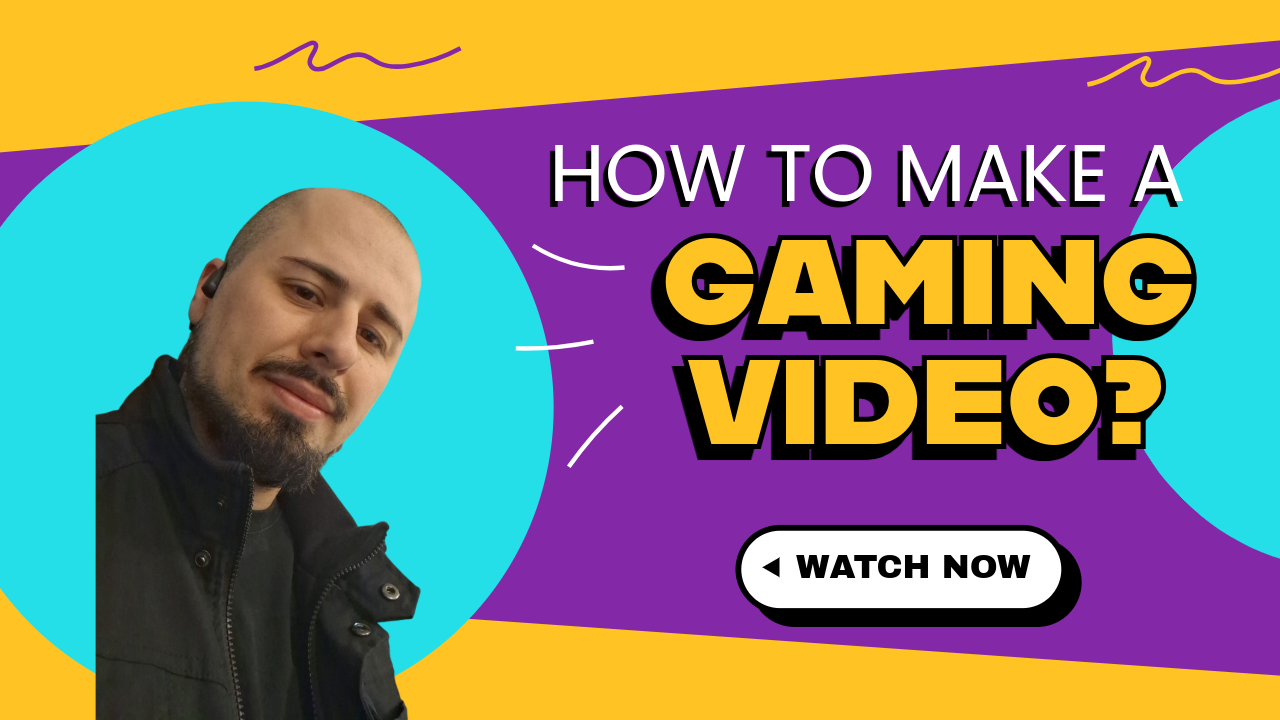
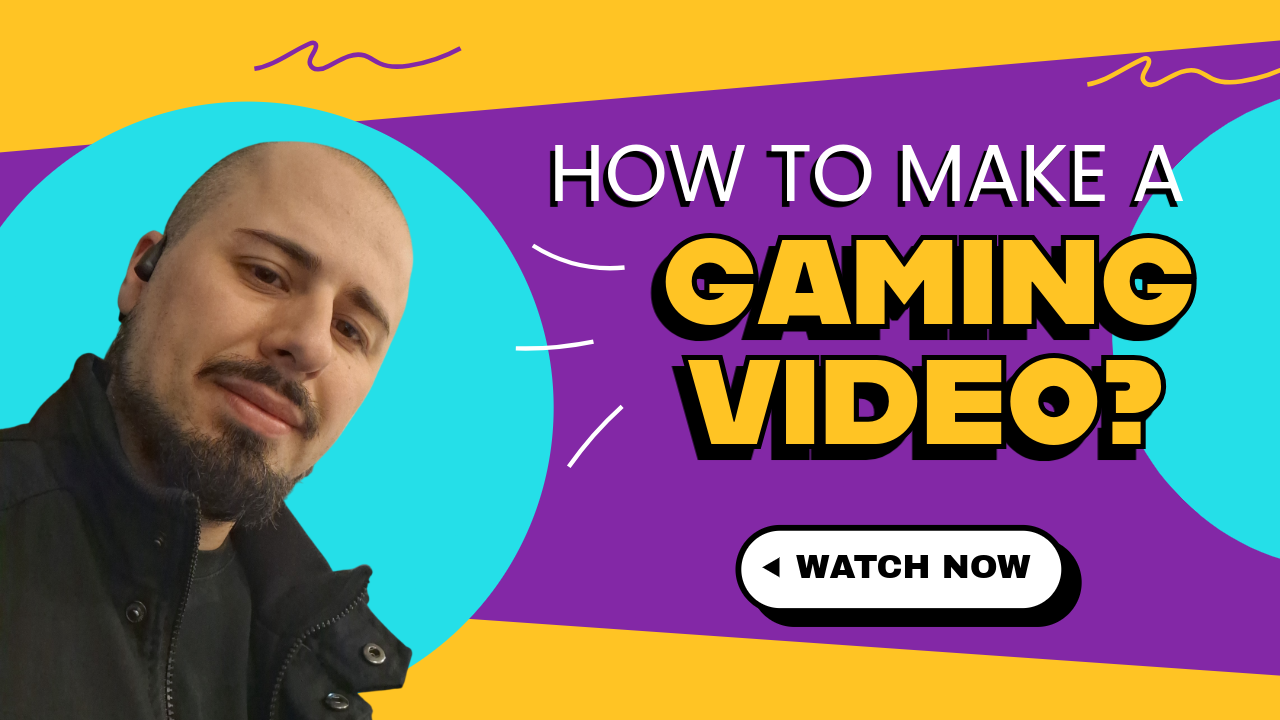
Update

Changed region(s): [[0.0, 0.1833, 0.3438, 1.0]]

diff --git a/Css/index.css b/Css/index.css
@@ -7,7 +7,7 @@
 :root{
     --background: #1a1535;
     --color2: #2e2456;
-    --color3: #9d7fd4;
+    --accent: #9d7fd4;
     --color4: #c9b8e8;
     --text: #ece8f5;
     --Img-border: blueviolet;
@@ -36,6 +36,7 @@ h4{
 }
 h5{
     font-size: 1.44rem;
+    font-weight: 400;
 }
 h6{
     font-size: 1.2rem;
@@ -96,9 +97,42 @@ body{
             filter: drop-shadow(0 2px 4px rgba(0, 0, 0, 0.3));
             &:hover {
                 transform: scale(1.1);
-                color: var(--color3);
                 transition: transform 0.3s ease, color 0.3s ease;
             }
+        }
+    }
+    main{
+        .video-section{
+            display: flex;
+            flex-direction: column;
+            justify-content: center;
+            align-items: center;
+            text-align: center;
+            color: var(--text);
+            padding: 4rem;
+            gap: 1rem;
+            .textcontainer{
+                .h2{
+                    font-size: 2.074rem;
+                    font-family: "Marker", sans-serif;
+                    color: var(--accent);
+                }
+                h5{
+                    p{
+                        display: flex;
+                        justify-content: center;
+                        align-items:center;
+                        gap:.5rem;
+                    }
+                }
+            }
+            .video-container{
+                width: 100%;
+                video{
+                    width: 100%;
+                }
+            }
+
         }
     }
 }

diff --git a/index.html b/index.html
@@ -70,8 +70,15 @@
 <main>
     <section class="video-section">
         <div class="textcontainer">
-            <h5>Our <span class ="h2">New </span>Lorem ipsum</h5>
-            <p>Lorem ipsum<span class ="h2">Lorem</span></p>
+            <h5>Our <span class ="h2"> New </span>Lorem ipsum</h5>
+            <p>Lorem ipsum<span class ="h2"> Lorem</span></p>
+        </div>
+        <div class=" video-container">
+            <video poster="/Media/Image/poster.png" controls autoplay muted>
+            <source src="Media/Av/Szene1.mp4" type="mp4">
+           <!-- <source src="Media/Av/Szene1.mp4" type="mp4"> mehr videos-->
+            >Your browser does not support videos
+            </video>
         </div>
     </section>
 </main>